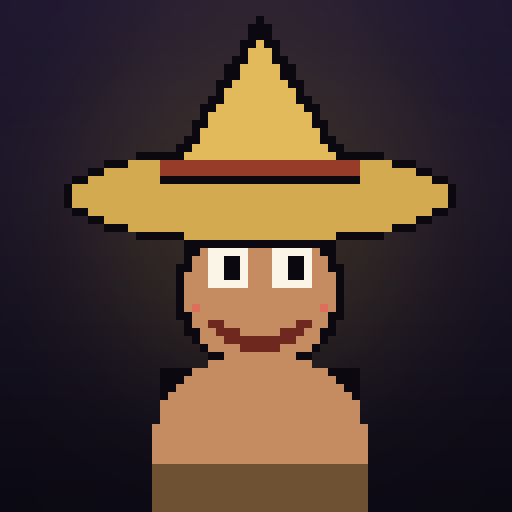
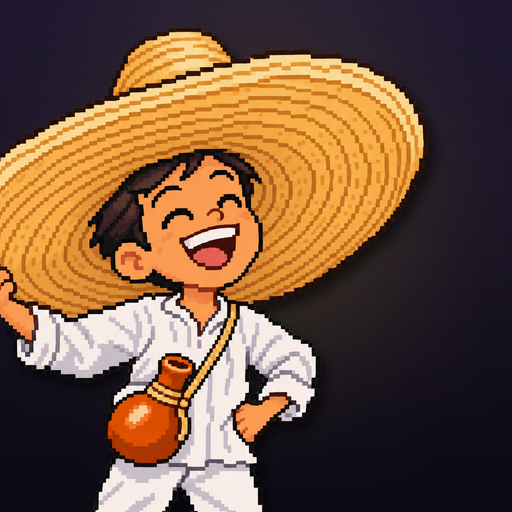
feat(retratos): Cipitío con arte del equipo y las 6 emociones de cada testigo
- portraits.py: TEAM_SUSPECTS usa el Cipitío de fescobar85
  (assets_generated/fachadas/Cipitio.png) recortado a busto.
- Las emociones que no están dibujadas se derivan del neutral: gradación
  de color y un ícono de expresión en pixel art (sudor, enojo, susto,
  lluvia, brillo). Las dibujadas a mano nunca se reemplazan.
- 44 retratos nuevos: los 10 testigos ya tienen las 6 emociones.
- Pruebas de las emociones derivadas y del Cipitío.

diff --git a/server/pipelines/portraits.py b/server/pipelines/portraits.py
@@ -17,7 +17,7 @@ import math
 import random
 from pathlib import Path
 
-from PIL import Image, ImageDraw, ImageFilter
+from PIL import Image, ImageDraw, ImageEnhance, ImageFilter
 
 ROOT = Path(__file__).resolve().parents[2]
 REFS = ROOT / "assets_generated" / "personajes"
@@ -230,17 +230,113 @@ SUSPECTS = {"cipitio": cipitio, "siguanaba": siguanaba, "cadejo": cadejo,
             "padre_sin_cabeza": padre_sin_cabeza, "carreta_chillona": carreta_chillona,
             "descarnada": descarnada}
 
+# Sospechosos con arte del equipo (reemplaza al procedural): id -> (dibujo, tamaño, desplazamiento x)
+TEAM_SUSPECTS: dict[str, tuple[Path, float, float]] = {
+    "cipitio": (ROOT / "assets_generated" / "fachadas" / "Cipitio.png", 0.82, 0.03),
+}
+
 
 def suspects() -> list[Path]:
     written = []
     for sid, fn in SUSPECTS.items():
         small, glow = fn()
-        bg = background(SIZE, glow).convert("RGBA")
-        fig = small.resize((SIZE, SIZE), Image.NEAREST)
-        bg.alpha_composite(fig)
+        team = TEAM_SUSPECTS.get(sid)
+        if team and team[0].exists():
+            img = compose(bust(Image.open(team[0]), team[1], team[2]), glow)
+        else:
+            bg = background(SIZE, glow).convert("RGBA")
+            bg.alpha_composite(small.resize((SIZE, SIZE), Image.NEAREST))
+            img = bg.convert("RGB")
         path = OUT / f"{sid}_neutral.png"
-        bg.convert("RGB").save(path)
+        img.save(path)
         written.append(path)
+    return written
+
+
+# ---------- emociones derivadas ----------
+# Cada testigo trae una o dos emociones dibujadas. Las demás se derivan del neutral con
+# una gradación de color y un ícono de expresión (estilo manga, en pixel art) en la
+# esquina superior derecha. Nunca reemplazan una emoción dibujada a mano.
+
+# emoción -> (tinte, fuerza del tinte, saturación, brillo, ícono)
+DERIVED: dict[str, tuple[tuple[int, int, int], float, float, float, str]] = {
+    "nervioso": ((255, 214, 120), 0.10, 1.0, 1.0, "sudor"),
+    "enojado": ((225, 45, 30), 0.24, 1.15, 0.95, "enojo"),
+    "asustado": ((100, 120, 210), 0.26, 0.55, 0.85, "susto"),
+    "triste": ((70, 90, 170), 0.30, 0.55, 0.80, "lluvia"),
+    "aliviado": ((255, 205, 140), 0.14, 1.05, 1.08, "brillo"),
+}
+
+# Íconos de 16x16 ('.' vacío). Se escalan x6.
+ICONS: dict[str, tuple[list[str], dict[str, tuple[int, int, int]]]] = {
+    "sudor": ([
+        "......o.........", ".....obo........", "....obbbo.......", "...obbwbbo......",
+        "...obwbbbo......", "...obbbbbo......", "....obbbo.......", ".....ooo....o...",
+        "...........obo..", "..........obwbo.", "..........obbbo.", "...........ooo..",
+        "................", "................", "................", "................"],
+        {"o": (20, 40, 90), "b": (110, 190, 255), "w": (235, 250, 255)}),
+    "enojo": ([
+        "................", "...rr......rr...", "..rRRr....rRRr..", "..rRRRr..rRRRr..",
+        "...rRRr..rRRr...", "....rr....rr....", "................", "................",
+        "....rr....rr....", "...rRRr..rRRr...", "..rRRRr..rRRRr..", "..rRRr....rRRr..",
+        "...rr......rr...", "................", "................", "................"],
+        {"r": (90, 10, 10), "R": (240, 50, 40)}),
+    "susto": ([
+        "..w...w...w.....", "..w...w...w.....", "..ww..ww..ww....", "...w...w...w....",
+        "...w...w...w....", "..ww..ww..ww....", "..w...w...w.....", "..w...w...w.....",
+        "................", "................", "................", "................",
+        "................", "................", "................", "................"],
+        {"w": (200, 225, 255)}),
+    "lluvia": ([
+        "....oooooo......", "..oogggggoo.....", ".ogggggggggoo...", "ogggggggggggggo.",
+        "ogggggggggggggo.", ".ooooooooooooo..", "................", "..b....b....b...",
+        "..b....b....b...", "................", "....b....b......", "....b....b......",
+        "................", "................", "................", "................"],
+        {"o": (30, 30, 50), "g": (90, 95, 120), "b": (110, 160, 240)}),
+    "brillo": ([
+        ".......y........", ".......y........", "......yYy.......", "..yyyyYwYyyyy...",
+        "......yYy.......", ".......y........", ".......y.....y..", "............yYy.",
+        ".............y..", "...y............", "..yYy...........", "...y............",
+        "................", "................", "................", "................"],
+        {"y": (200, 150, 30), "Y": (255, 225, 90), "w": (255, 255, 230)}),
+}
+
+
+def icon(name: str, scale: int = 6) -> Image.Image:
+    rows, colors = ICONS[name]
+    im = Image.new("RGBA", (16, 16), (0, 0, 0, 0))
+    for y, row in enumerate(rows):
+        for x, ch in enumerate(row):
+            if ch in colors:
+                im.putpixel((x, y), (*colors[ch], 255))
+    return im.resize((16 * scale, 16 * scale), Image.NEAREST)
+
+
+def derive(neutral: Image.Image, emotion: str) -> Image.Image:
+    tint, amount, sat, bright, ico = DERIVED[emotion]
+    img = neutral.convert("RGB")
+    img = ImageEnhance.Color(img).enhance(sat)
+    img = ImageEnhance.Brightness(img).enhance(bright)
+    img = Image.blend(img, Image.new("RGB", img.size, tint), amount)
+    out = img.convert("RGBA")
+    out.alpha_composite(icon(ico), (SIZE - 16 * 6 - 18, 22))
+    return out.convert("RGB")
+
+
+def derived_emotions() -> list[Path]:
+    """Completa las 6 emociones de cada testigo a partir de su neutral."""
+    written = []
+    for _fname, (wid, drawn) in REFERENCES.items():
+        neutral = OUT / f"{wid}_neutral.png"
+        if not neutral.exists():
+            continue
+        base = Image.open(neutral)
+        for emo in DERIVED:
+            if emo == drawn:
+                continue  # la dibujada a mano manda
+            path = OUT / f"{wid}_{emo}.png"
+            derive(base, emo).save(path)
+            written.append(path)
     return written
 
 
@@ -248,7 +344,10 @@ CREDITS_TEXT = """# Créditos de los retratos
 
 - **Testigos:** arte de referencia del equipo (fescobar85), en `assets_generated/personajes/`.
   `server/pipelines/portraits.py` los recorta a busto de 512x512 sobre un fondo nocturno.
-- **Sospechosos:** pixel art procedural generado por `server/pipelines/portraits.py`.
+- **Emociones:** cada testigo trae una o dos emociones dibujadas; las demás se derivan de su
+  retrato neutral (gradación de color e ícono de expresión en pixel art).
+- **Sospechosos:** el Cipitío es arte del equipo (fescobar85, `assets_generated/fachadas/Cipitio.png`);
+  los demás son pixel art procedural generado por `server/pipelines/portraits.py`.
 - `Nayik.png` no se usa en el juego.
 """
 
@@ -257,8 +356,9 @@ def main() -> None:
     OUT.mkdir(parents=True, exist_ok=True)
     (OUT / "CREDITOS.md").write_text(CREDITS_TEXT, encoding="utf-8")
     w = witnesses()
+    d = derived_emotions()
     s = suspects()
-    print(f"{len(w)} retratos de testigos y {len(s)} de sospechosos en {OUT}")
+    print(f"{len(w)} retratos de testigos, {len(d)} emociones derivadas y {len(s)} de sospechosos en {OUT}")
 
 
 if __name__ == "__main__":

diff --git a/tests/motor/test_portraits.py b/tests/motor/test_portraits.py
@@ -42,3 +42,35 @@ def test_busto_cuadrado_y_compuesto():
     assert b.width == b.height == int(500 * 0.6)
     out = P.compose(b)
     assert out.size == (512, 512) and out.mode == "RGB"
+
+
+def test_cada_testigo_tiene_las_6_emociones():
+    for w in data.characters()["witnesses"]:
+        for emo in EMOTIONS:
+            path = OUT / f"{w['id']}_{emo}.png"
+            assert path.exists(), path.name
+            with Image.open(path) as im:
+                assert im.size == (512, 512), path.name
+
+
+def test_emocion_derivada_cambia_color_y_lleva_icono():
+    base = Image.new("RGB", (512, 512), (120, 120, 120))
+    for emo in P.DERIVED:
+        out = P.derive(base, emo)
+        assert out.size == (512, 512)
+        assert out.getpixel((10, 400)) != (120, 120, 120), emo  # gradación
+        corner = {c for _, c in out.crop((512 - 120, 20, 512, 140)).getcolors(1 << 16)}
+        assert len(corner - {out.getpixel((512 - 8, 400))}) >= 1 and len(corner) >= 2, emo  # el ícono
+    assert set(P.DERIVED) == EMOTIONS - {"neutral"} and set(P.ICONS) == {v[4] for v in P.DERIVED.values()}
+
+
+def test_las_emociones_dibujadas_no_se_reemplazan():
+    # Mercedes trae "enojado" dibujado: es idéntico a su neutral (mismo dibujo), no un derivado.
+    a = Image.open(OUT / "mercedes_enojado.png").convert("RGB")
+    b = Image.open(OUT / "mercedes_neutral.png").convert("RGB")
+    assert a.tobytes() == b.tobytes()
+
+
+def test_cipitio_con_arte_del_equipo():
+    path, _, _ = P.TEAM_SUSPECTS["cipitio"]
+    assert path.exists() and path.name == "Cipitio.png"

diff --git a/assets_generated/portraits/CREDITOS.md b/assets_generated/portraits/CREDITOS.md
@@ -2,5 +2,8 @@
 
 - **Testigos:** arte de referencia del equipo (fescobar85), en `assets_generated/personajes/`.
   `server/pipelines/portraits.py` los recorta a busto de 512x512 sobre un fondo nocturno.
-- **Sospechosos:** pixel art procedural generado por `server/pipelines/portraits.py`.
+- **Emociones:** cada testigo trae una o dos emociones dibujadas; las demás se derivan de su
+  retrato neutral (gradación de color e ícono de expresión en pixel art).
+- **Sospechosos:** el Cipitío es arte del equipo (fescobar85, `assets_generated/fachadas/Cipitio.png`);
+  los demás son pixel art procedural generado por `server/pipelines/portraits.py`.
 - `Nayik.png` no se usa en el juego.
